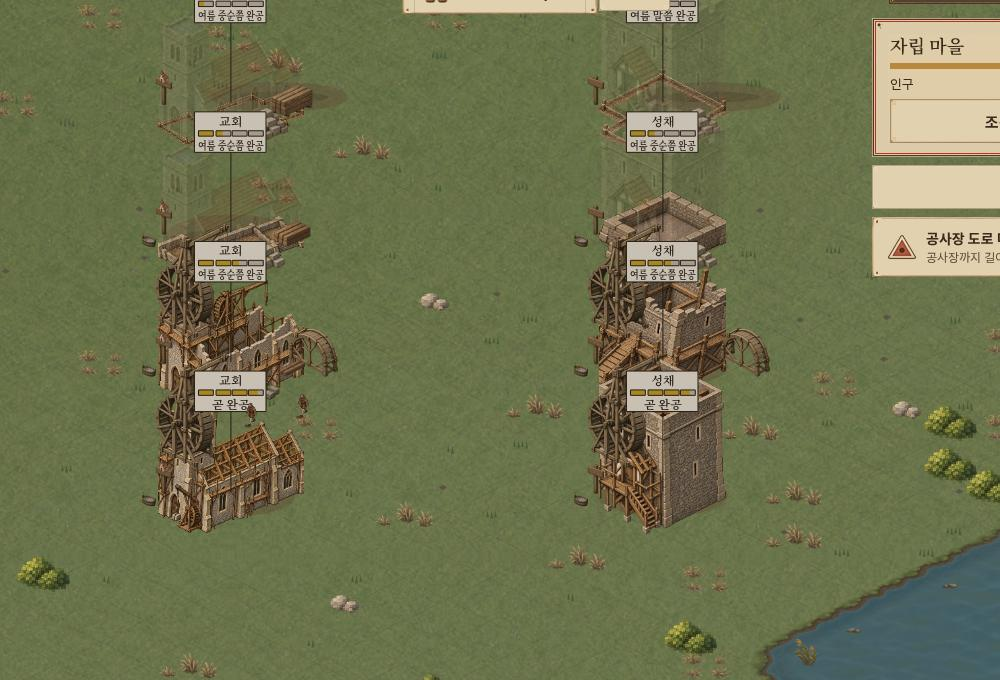
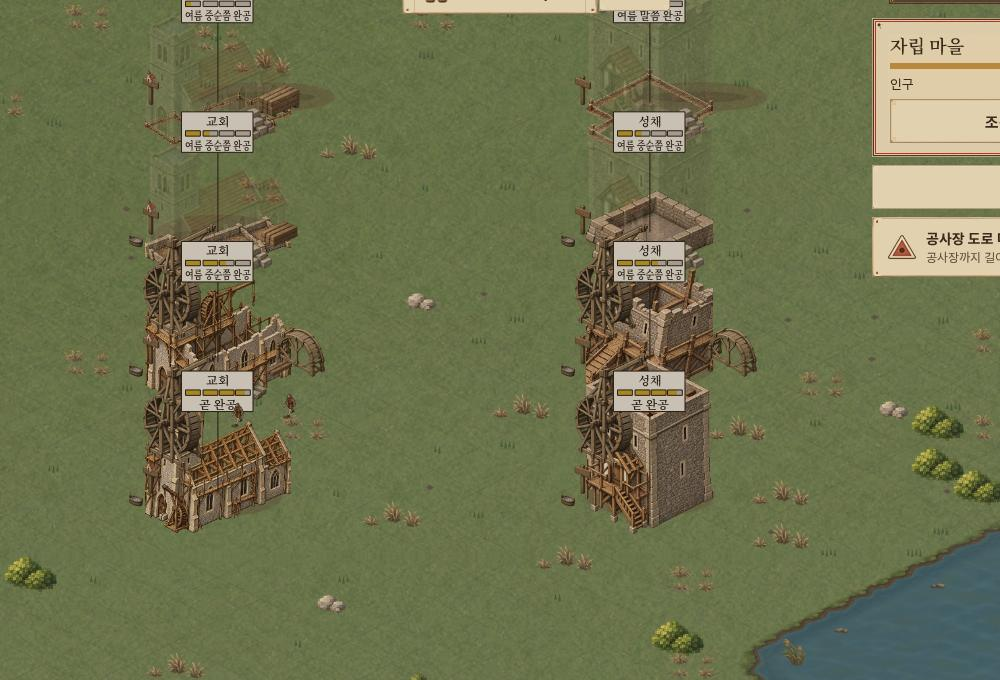
INSTALL-11: spec IK-1..4, decisions, report, STATUS

diff --git a/docs/verification/install11/REPORT.md b/docs/verification/install11/REPORT.md
@@ -1,0 +1,38 @@
+관문: ①대장 · ②계열 4 × 4단계 · ③교회 공사장 · ④기준점 · ⑤성능 · ⑥결정론·C25·클론
+
+# INSTALL-11 건물 계열별 공사 키트
+
+- **범위:** 렌더·표현 워커·에셋·대장·테스트·스크립트·문서만 바꿨다. 엔진 0줄이다.
+- **검증:** DGX(REMOTE-1)로 캡처·성능·C25·클론을 돌렸다.
+- **명세·결정:** [공사 키트 IK-1~IK-4](../../design/construction-kits.md), 결정 IN11-D1~D3.
+
+## 관문
+| 관문 | 결과 | 증빙 |
+|---|---|---|
+| ① 대장 | 55장 설치했다. Astra SHA = inbox = 런타임이다. `docs/provenance/assets.csv` 55행, 프롬프트 55개, `INBOX_LEDGER.csv` `installed_by` 55칸, `verify:provenance` 누락 0 | `scripts/installWave11.py` |
+| ② 계열 × 단계 | 목조 소·중, 석조 중·대, 교회, 성채 × 4단계(10/40/70/95 %) 줄 세운 장면이다. 줌 0.6 전체 캡처에서 골조·지붕 단계의 계열이 서로 다르게 읽힌다. 본선은 모두 같은 공통 그림이다. 석벽 공사장에는 모퉁이마다 탑 키트가 선다 | `captures/all-z06-{before,after}.jpg`, `row*-z1-*`, `walls-z1-*` |
+| ③ 교회 공사장 | 골조 단계(1.35): 답차 기중기·매단 돌·홍예틀·모르타르 통이 있고, 건설 워커 2명이 석공 몸에 흙손을 든다(`kitWorker` 단위 테스트) | `captures/church-frame-z135-*`, `tests/constructionKits.test.ts` |
+| ④ 기준점 | 팻말 기준점은 단계와 무관하다(완성 높이). 6종 × 4단계 모두 같은 자리다(단위 테스트) | `tests/constructionKits.test.ts` |
+| ⑤ 성능 | DGX p95 비 96~102 %(본선 기준선 32a43dc) | 아래 표 |
+| ⑥ 결정론·C25·클론 | Node C25 판은 그대로다. 브라우저 판은 두 번 열어 6/6 같다. 본선과는 HUD 목표 카드 영역만 다르고, 세계 화면은 Mac 비교에서 같다(C25 판에 공사장이 없다). 전체 2,954/2,954. CLONE | `c25-board-browser.json` |
+
+| 칸(DGX, frameWork ms) | 본선 32a43dc 중앙 / p95 | INSTALL-11 중앙 / p95 | p95 비 |
+|---|---|---|---|
+| lots24 DPR 1 끌기 | 5.8 / 9.3 | 6.1 / 9.5 | 102 % |
+| lots24 DPR 1 정지 | 5.0 / 9.0 | 5.4 / 9.1 | 101 % |
+| lots24 DPR 2 정지 | 18.3 / 21.0 | 18.5 / 21.1 | 100 % |
+| newgame DPR 1 정지 | 4.1 / 5.6 | 4.2 / 5.7 | 102 % |
+| pop176 DPR 1 정지 | 4.0 / 12.3 | 4.0 / 11.8 | 96 % |
+
+## 결정
+- **IN11-D1:** 방어 키트는 석벽 공사장 경로의 모퉁이(90° 꺾임)에만 탑으로 둔다. 성문 키트는 등록만 했다. 공사 구간 안에서 성문 자리를 정할 정보(`gateDistance`의 구간 내 위치)가 분명하지 않아서다.
+- **IN11-D2:** 예배당·곡창은 공공 키트가 없어 석조 중·대를 쓴다. 장터·채석장은 공통 그림을 쓴다.
+- **IN11-D3:** 엔진의 철거는 즉시라서 역순 키트는 표현 순간으로 둔다. 이어지는 상태에서만 판단하고, 불러오기는 철거로 보지 않는다.
+
+## 남은 것
+- 성문 키트 연결(석벽 공사 구간의 성문 위치), 원형·사각 탑 구분(원형 탑 기준만 있다).
+- DGX 캡처의 시작 카메라가 동쪽으로 치우쳐 줌 1.0 줄 캡처에서 오른쪽 열이 잘린다. 0.6 전체 캡처로 대신했다.
+- 철거 역순은 단위 테스트로만 확인했다(브라우저 캡처 없음).
+
+## 소요 시간
+- 12:31 → TIME(KST), 상한 3시간 안이다.

diff --git a/docs/design/construction-kits.md b/docs/design/construction-kits.md
@@ -1,0 +1,35 @@
+# 건물 계열별 공사 키트 (INSTALL-11, Wave 11)
+
+근거: INSTALL-11 지시서와 Wave 11 55장(`assets-inbox/wave11/candidates-v1`, 판정표 confirmed).
+코드: `scripts/installWave11.py` → `src/render/wave11ArtManifest.generated.ts`, `src/render/wave11Art.ts`(공용 `manifestArt.ts`), `src/render/constructionKits.ts`, `src/render/demolitionMoments.ts`, `scripts/buildWalkerSheetManifest.py`(목수·석공 시트, 톱·자귀·흙손).
+규칙·저장 형식은 바꾸지 않는다. F0-V의 기준점·bar·더미·먼지·완공 연출은 그대로 두고, 단계 그림만 키트로 바꾼다.
+
+## IK-1 계열·크기(`constructionKitFor`)
+| 계열 | 건물 | 키트 | 기준 캔버스(그 그림의 rect·crop으로 그린다) |
+|---|---|---|---|
+| 목조 | 오두막, 벌목장 | 소 | L0 집 |
+| 목조 | 헛간, 제재소, 방앗간 | 중 | L2 집 |
+| 석조 | 석공소, 예배당 | 중 | 석공소 |
+| 석조 | 창고, 곡창 | 대 | 창고(발판 맞춤, R0-2) |
+| 공공 | 교회, 성채 | 전용 | 교회, 성채 |
+| 방어 | 석벽 공사장 | 탑 | 모퉁이마다 |
+
+- **폴백:** 우물은 전용 3단계를 쓴다. 장터·채석장·옛 밀밭과 목책은 공통 4단계 그림을 쓴다.
+- **단계:** 공사 단계 25/55/85 % 경계에서 키트 그림 4장(터·기초·골조·지붕) 가운데 하나를 고른다.
+
+## IK-2 공사장 소품(줌 1.0 이상, 발판 밖 가장자리 결정론 배치)
+- **목조:** 들보 더미·눕혀 짠 벽 틀(기초), 톱 구덩이(골조·지붕).
+- **석조:** 모르타르 통·석회 더미(기초부터).
+- **공공:** 답차 기중기와 매단 돌(골조부터), 홍예틀(골조), 모르타르 통.
+
+## IK-3 공사 워커
+- **몸:** 키트가 있는 공사장의 건설 워커는 계열의 몸을 입는다. 목조는 목수, 석조·공공·방어는 석공이다.
+- **도구:** 목수는 기초까지 자귀, 골조부터 톱을 든다. 석공은 흙손을 든다.
+- **시트:** 시트 band는 `kit`이다. 어떤 직업 풀에도 들어가지 않는다.
+
+## IK-4 철거 = 키트 역순
+- **동작:** 완성 건물이 상태에서 사라지고 그 발판에 아무것도 서지 않으면 철거로 본다. 합쳐진 쌍집이나 재건축은 철거가 아니다.
+  - 계열 키트가 지붕 → 골조 → 기초 → 터 순으로 1.2 s 돌고, 마지막 1/4에 흐려진다.
+  - 5배속부터는 생략한다.
+- **조건:** 이어지는 상태(틱이 0~60 진행, 한 번에 3채 이하 사라짐)에서만 본다. 불러오기·새 장면은 철거로 보지 않는다.
+- **기억:** 표현 기억이다(사라진 건물과 시작 시각, 시계가 뒤로 가면 초기화).

diff --git a/docs/decisions/README.md b/docs/decisions/README.md
@@ -220,6 +220,7 @@ S0 지시서가 설계서 14절의 기준선 교체보다 우선한다. 이번 s
 | R0-1 | 세계 신호 S2(끊긴 길)·S4(연기 없는 집)·S8(멈춘 공사장 막힘)은 조건이 배급 한 주기(계절의 1/4 = 250틱) 이상 이어질 때만 뜬다. 시작 시각은 엔진 값(S4 `foodShortSinceTick`)이 있으면 쓰고, 떠날 준비·황폐 집은 이미 한 계절 모자람이라 곧바로 뜬다. 나머지는 세션이 처음 본 틱이다(표현 기억, 시계가 뒤로 가면 초기화). S1 빈 필지는 그대로 곧바로 뜬다 | 사용자 판정 2026-09-26 | 2026-09-26 | [보고서](../verification/r0-render-fixes/REPORT.md) |
 | R0-2 | 완성 건물 그림은 발판 마름모 위에 선다: 가운데(알파 폭 가운데 ±0.12 반폭), 바닥(최저 불투명 화소가 폭에 비례한 앞 꼭짓점 ±0.25 반높이), 크기(마름모 폭의 0.72~1.05, 우물은 0.3부터). 한 장 스프라이트 건물(우물·벌목장·창고·곡창)과 헛간은 알파 경계로 발판에 맞추고(`buildingSpriteFit`), 2칸 이상 시설·쌍집은 발판의 실제 앞 꼭짓점에, 방앗간 몸체는 알파 가운데에, 성채는 폭 94로 둔다. `tests/footprintAlignment.test.ts`가 58장 전부를 검사한다 | 사용자 판정 2026-09-26 | 2026-09-26 | [보고서](../verification/r0-render-fixes/REPORT.md) |
 | IN7-D1~D5 | INSTALL-7: 적재물·소품 LOD 0.8, 장식 0.6 / 들일 소품은 달력 / 지붕 눈·판자는 단독 필지만 / S12·빈집을 S4에서 분리, 강조 순위 / 볏단은 수확 줄 칸 수 | INSTALL-7 지시서 + 렌더 결정 | 2026-09-26 | [보고서](../verification/install7/REPORT.md) · [명세](../design/bread-chain-winter.md) |
+| IN11-D1~D3 | INSTALL-11: 방어 키트는 석벽 모퉁이 탑만(성문 키트는 등록) / 예배당·곡창은 석조 키트, 장터·채석장은 공통 그림 / 철거 역순은 이어지는 상태에서만 표현 | INSTALL-11 지시서 + 렌더 결정 | 2026-09-26 | [보고서](../verification/install11/REPORT.md) · [명세](../design/construction-kits.md) |
 
 ## R1-fix 확정 규칙
 

diff --git a/docs/STATUS.md b/docs/STATUS.md
@@ -1,9 +1,12 @@
 # 현재 상태
 
-갱신: 2026-09-26(INSTALL-7 · R0 · F0-V · F0-A · INSTALL-5c · UX-2 · UX-1 · MOVE-1 · FIX-1 · BOT-1 완료 · INSTALL-4e · TOUCH-1 · PLAY-1 · V2 · C3 · C1f · C1c-2 · B9 · D3b 벽 띠 플래그 · D3b · D3a · C1e · C1d · C1c · C2 · C1b · B3 · D1a-2 · B5+C1a). 제품 본선: `codex/phase15-organic-ground`.
+갱신: 2026-09-26(INSTALL-11 · INSTALL-7 · R0 · F0-V · F0-A · INSTALL-5c · UX-2 · UX-1 · MOVE-1 · FIX-1 · BOT-1 완료 · INSTALL-4e · TOUCH-1 · PLAY-1 · V2 · C3 · C1f · C1c-2 · B9 · D3b 벽 띠 플래그 · D3b · D3a · C1e · C1d · C1c · C2 · C1b · B3 · D1a-2 · B5+C1a). 제품 본선: `codex/phase15-organic-ground`.
 
 ## 현재 단계
 
+- **INSTALL-11 건물 계열별 공사 키트 — 관문 ①~⑥ 통과, 본선 병합**(Claude Code, 렌더·표현 워커·에셋·대장·테스트·스크립트·문서만, 엔진 0줄, 검증 DGX): [보고서](verification/install11/REPORT.md), [명세](design/construction-kits.md) IK-1~IK-4, 결정 IN11-D1~D3.
+  - 55장 설치. 목조 소·중, 석조 중·대, 교회·성채, 석벽 모퉁이 탑 키트가 단계마다 완성 그림의 캔버스에 선다.
+  - 기중기·홍예틀·모르타르·들보 소품, 목수·석공 몸과 톱·자귀·흙손, 철거는 키트 역순. DGX p95 96~102 %.
 - **INSTALL-7 Wave 7 — 밀→빵→집 사슬·겨울·세계 신호: 관문 ①~⑦ 통과, 본선 병합**(Claude Code, 렌더·표현 워커·에셋·대장·테스트·스크립트·문서만, 엔진 0줄, 검증 DGX): [보고서](verification/install7/REPORT.md), [명세](design/bread-chain-winter.md) IN7-1~IN7-8, 결정 IN7-D1~D5.
   - 77장 설치, 수레 적재물 6종 × 2축, 연기·먼지 4프레임 시트, 더미 4종 × 3단, 작업 소품 5종 + 낫.
   - 지붕 눈(L0~L4)·서리·낙엽·마른 풀, 신호 S1·S2·S6·S9·S12·빈집, 지붕틀 크기 4등급.
